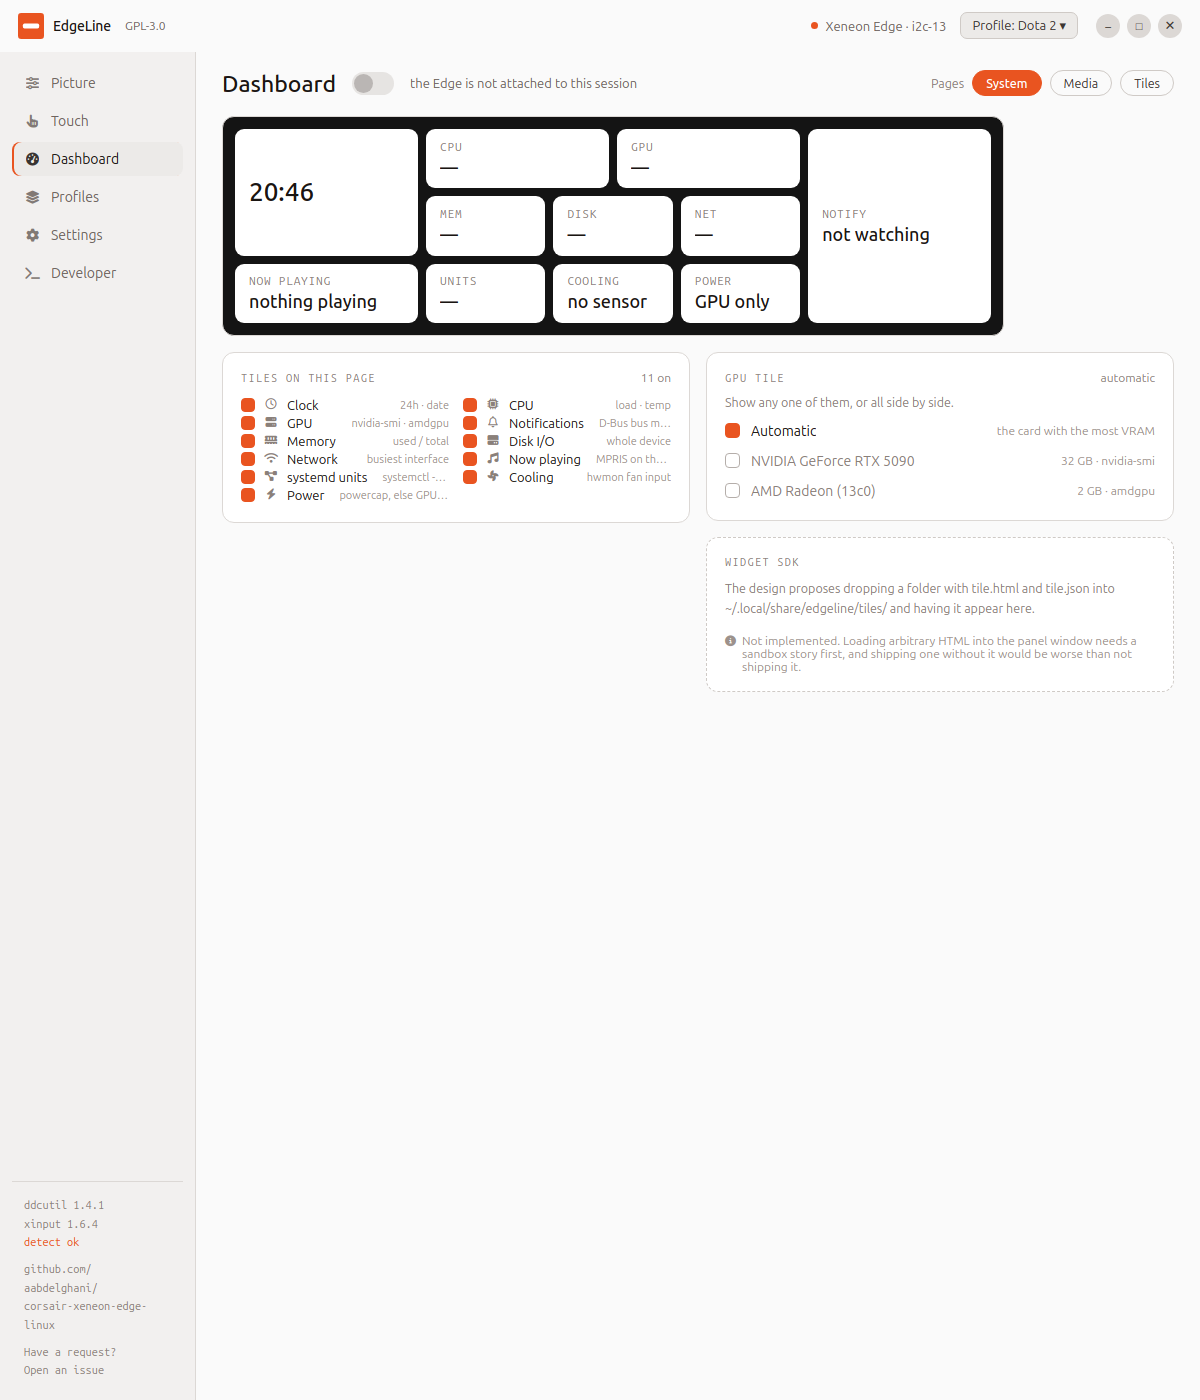
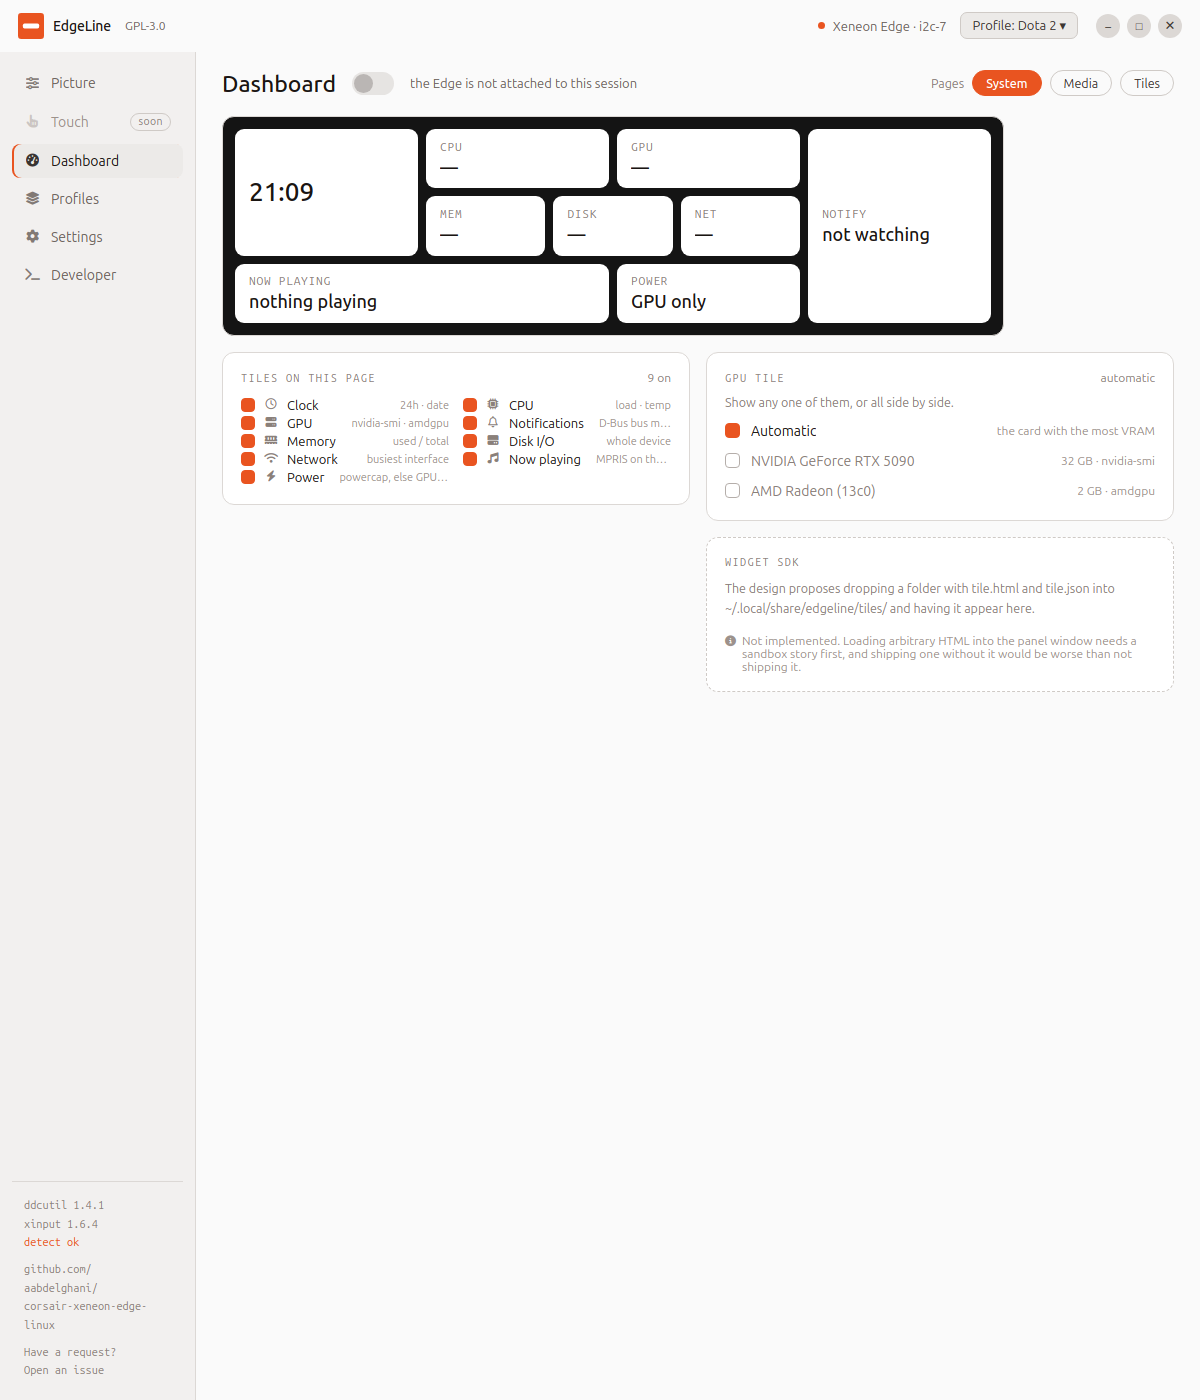
Fill the whole panel, stop spawning two agents, and park touch as coming soon
The panel window came up 2559x719 on a 2560x720 monitor, leaving a strip of
desktop along the right and bottom. It is Electron, not the window manager:
resizing the mapped window to 2560x720 from outside sticks, while asking
Electron for exactly the monitor's bounds reads back a pixel short on each
axis, before and after the window is shown. Asking for one pixel more avoids
the trim. The extra pixel only goes on a side with no other monitor beyond it,
so it can never draw a line along a neighbouring screen. The panel also fills
the window on both axes now instead of letterboxing, which had turned that
single missing pixel into a visible band.

Two agents were running at once, both children of the interface, a second
apart. A refused connection emits 'error' and then 'close' for the same
socket, and the handler ran for both, spawning an agent each time; the second
took the socket from the first, which stayed alive polling the panel over DDC.
The handler now runs once per socket, the interface will not spawn while its
last agent is still starting, and the agent takes a lock file before binding,
so two started together leave exactly one. A SIGKILLed agent's lock is
recognised as stale and does not block the next start.

Touch is parked. The tab stays reachable with a "soon" badge, and the page
shows its state greyed out under a coming soon notice. The panel stays in
Ripple only, which is the mode the agent restores, so that is what the page
shows as selected.
[…]

diff --git a/ui/main.js b/ui/main.js
@@ -63,7 +63,13 @@ function agentCandidates() {
   });
 }
 
+let agentChild = null;
+
 function startAgent() {
+  // One agent at a time. A spawn that is still starting has not created the
+  // socket yet, so every reconnect attempt in that window would otherwise
+  // start another one.
+  if (agentChild && agentChild.exitCode === null && agentChild.signalCode === null) return true;
   const bin = agentCandidates()[0];
   if (!bin) return false;
   try {
@@ -71,6 +77,8 @@ function startAgent() {
     // a packaged install uses the systemd user unit instead.
     const child = spawn(bin, [], { stdio: 'ignore' });
     child.unref();
+    agentChild = child;
+    child.on('exit', () => { if (agentChild === child) agentChild = null; });
     return true;
   } catch {
     return false;
@@ -138,7 +146,14 @@ function connect() {
     }
   });
 
+  // A refused connection emits 'error' and then 'close' for the same socket, so
+  // without this guard drop ran twice per failure. It spawned two agents a
+  // second apart; the second took the socket over from the first, which was
+  // left orphaned and still polling the panel over DDC.
+  let dropped = false;
   const drop = () => {
+    if (dropped) return;
+    dropped = true;
     const wasConnected = connected;
     connected = false;
     if (sock) sock.destroy();
@@ -259,6 +274,33 @@ let rippleWindow = null;
 // Both of these live on the panel itself, so they are placed by finding a
 // display of exactly 2560x720. The connector name is never used: it changes
 // between reboots on this hardware.
+// Bounds for the panel window, one pixel larger than the monitor.
+//
+// Electron trims a pixel off each axis of a window whose bounds exactly equal
+// its monitor, before and after the window is shown alike: asked for 2560x720
+// on the Edge it gave 2559x719, leaving a strip of desktop along the right and
+// bottom edges. It is not the window manager (resizing the mapped window to
+// 2560x720 from outside sticks, and mutter refuses fullscreen for it anyway).
+// Asking for one pixel more avoids the trim; measured 2561x721.
+//
+// The extra pixel must land where no other monitor is, or it would draw a dark
+// line along the edge of a neighbouring screen. So it goes past the right edge
+// only if nothing is there, else past the left, and the same for bottom and
+// top. A panel boxed in on both sides of an axis keeps the trimmed pixel on
+// that axis, which is the lesser problem.
+function panelBounds(edge) {
+  const e = edge.bounds;
+  const others = screen.getAllDisplays().filter((d) => d.id !== edge.id).map((d) => d.bounds);
+  const clear = (r) => !others.some((o) => r.x < o.x + o.width && o.x < r.x + r.width
+                                        && r.y < o.y + o.height && o.y < r.y + r.height);
+  const b = { ...e };
+  if (clear({ x: e.x + e.width, y: e.y, width: 1, height: e.height })) b.width += 1;
+  else if (clear({ x: e.x - 1, y: e.y, width: 1, height: e.height })) { b.x -= 1; b.width += 1; }
+  if (clear({ x: e.x, y: e.y + e.height, width: e.width, height: 1 })) b.height += 1;
+  else if (clear({ x: e.x, y: e.y - 1, width: e.width, height: 1 })) { b.y -= 1; b.height += 1; }
+  return b;
+}
+
 function openDashboardWindow() {
   const edge = edgeDisplay();
   if (!edge) return { ok: false, error: 'the Edge is not attached to this session' };
@@ -268,7 +310,12 @@ function openDashboardWindow() {
     icon: APP_ICON,
     x: edge.bounds.x, y: edge.bounds.y,
     width: edge.bounds.width, height: edge.bounds.height,
-    frame: false, alwaysOnTop: true, skipTaskbar: true, resizable: false,
+    // Resizable on purpose. resizable:false publishes a minimum and maximum
+    // size of exactly 2560x720, and with both pinned mutter will neither
+    // fullscreen the window nor place it at the monitor's full size: it came
+    // up 2559x719. With no frame and no focus nobody can drag it anyway.
+    frame: false, alwaysOnTop: true, skipTaskbar: true, resizable: true,
+    show: false,   // shown once ready, then sized exactly; see below
     // A readout, not an input surface. Focusable it would sit on top of the
     // panel and swallow keyboard focus, and since it does nothing with keys
     // that looks exactly like the keyboard having stopped working.
@@ -281,6 +328,18 @@ function openDashboardWindow() {
   });
   dashWindow.removeMenu();
   dashWindow.setAlwaysOnTop(true, 'normal');
+  // Sized once it is on screen, to panelBounds rather than the monitor's own
+  // bounds; see there for why.
+  dashWindow.once('ready-to-show', () => {
+    if (!dashWindow) return;
+    dashWindow.showInactive();
+    setTimeout(() => {
+      if (!dashWindow) return;
+      dashWindow.setBounds(panelBounds(edge));
+      const b = dashWindow.getBounds();
+      console.log(`[panel] bounds ${b.width}x${b.height}+${b.x}+${b.y}`);
+    }, 250);
+  });
   dashWindow.loadFile(path.join(__dirname, 'renderer', 'dashboard.html'));
   dashWindow.on('closed', () => { dashWindow = null; });
   return { ok: true };

diff --git a/ui/renderer/dashboard.js b/ui/renderer/dashboard.js
@@ -33,21 +33,21 @@ const PAGE_NAMES = ['SYSTEM', 'MEDIA', 'TILES'];
 const LAYOUTS = [
   [['time', 3, 2], ['cpu', 3, 1], ['gpu', 3, 1], ['notifications', 3, 3],
    ['memory', 2, 1], ['disk', 2, 1], ['network', 2, 1],
-   ['nowplaying', 3, 1], ['units', 2, 1], ['cooling', 2, 1], ['power', 2, 1]],
+   ['nowplaying', 6, 1], ['power', 3, 1]],
 
   [['time', 3, 2], ['nowplaying', 6, 2], ['notifications', 3, 3],
    ['memory', 3, 1], ['disk', 3, 1], ['network', 3, 1]],
 
   [['cpu', 3, 1], ['gpu', 3, 1], ['memory', 3, 1], ['disk', 3, 1],
-   ['network', 3, 1], ['units', 3, 1], ['cooling', 3, 1], ['power', 3, 1],
+   ['network', 6, 1], ['power', 6, 1],
    ['time', 6, 1], ['nowplaying', 6, 1]],
 ];
 
 // The control window hides tiles by its own labels; these are the same tiles.
 const LABEL_OF = {
   time: 'Clock', cpu: 'CPU', gpu: 'GPU', memory: 'Memory', disk: 'Disk I/O',
-  network: 'Network', units: 'systemd units', nowplaying: 'Now playing',
-  notifications: 'Notifications', cooling: 'Cooling', power: 'Power',
+  network: 'Network', nowplaying: 'Now playing',
+  notifications: 'Notifications', power: 'Power',
 };
 
 // ------------------------------------------------------------------ helpers
@@ -260,31 +260,6 @@ const TILES = {
       : ''));
   },
 
-  units: (cols, rows) => {
-    const c = card('stat', cols, rows);
-    add(c, h('div', 'kicker', 'SYSTEMD'));
-    const n = sensors.failedUnits;
-    const count = h('div', 'count');
-    add(count, h('span', `n${n > 0 ? ' bad' : ''}`, n >= 0 ? String(n) : '—'),
-               h('span', 'word', n === 0 ? 'all units ok' : 'failed'));
-    add(c, count);
-    const names = (sensors.failedUnitNames || []).slice(0, 2)
-      .map((u) => u.replace(/\.service$/, ''));
-    return add(c, h('div', 'names', names.join('\n')));
-  },
-
-  cooling: (cols, rows) => {
-    const c = card('stat', cols, rows);
-    add(c, h('div', 'kicker', 'COOLING'));
-    if (!(sensors.fanRpm >= 0))
-      return unavailable(c, 'no fan sensor',
-        'nothing under /sys/class/hwmon reports a fan on this machine');
-    const big = h('div', 'big', String(Math.round(sensors.fanRpm)));
-    add(big, h('span', 'unit', ' RPM'));
-    add(c, big);
-    return add(c, h('div', 'sub', sensors.fanChip || ''));
-  },
-
   power: (cols, rows) => {
     const c = card('stat', cols, rows);
     add(c, h('div', 'kicker', 'POWER'));
@@ -371,9 +346,14 @@ const TILES = {
 // ------------------------------------------------------------------- render
 
 function fit() {
-  // Letterbox rather than stretch: the artboard's proportions are the panel's.
-  const s = Math.min(window.innerWidth / 2560, window.innerHeight / 720);
-  board.style.setProperty('--s', String(s > 0 ? s : 1));
+  // Fill both axes rather than letterboxing. The artboard already has the
+  // panel's proportions, so the two factors only differ when the window is a
+  // pixel short, and letterboxing turned that single missing pixel into a
+  // visible band down the side of the panel.
+  const sx = window.innerWidth / 2560;
+  const sy = window.innerHeight / 720;
+  board.style.setProperty('--sx', String(sx > 0 ? sx : 1));
+  board.style.setProperty('--sy', String(sy > 0 ? sy : 1));
 }
 
 function header() {

diff --git a/ui/renderer/page-touch.js b/ui/renderer/page-touch.js
@@ -122,7 +122,9 @@ function touchTestCard() {
         `${points.length} contact${points.length === 1 ? '' : 's'}`)),
     el('div', {
       style: 'aspect-ratio:2560/720;border-radius:8px;background:var(--sidebar);'
-           + 'border:1px solid var(--border);position:relative;max-height:74px;overflow:hidden',
+           // Shorter while the page is not live: the "coming soon" banner above
+           // takes that height, and the window is a fixed 760 with no scrolling.
+           + `border:1px solid var(--border);position:relative;max-height:${TOUCH_PAGE_LIVE ? 74 : 40}px;overflow:hidden`,
     },
       ...points.map((p) => el('div', {
         style: `position:absolute;left:${(p.nx * 100).toFixed(2)}%;top:${(p.ny * 100).toFixed(2)}%;`
@@ -358,14 +360,18 @@ function gesturesModal() {
         }, 'Done'))));
 }
 
+// The Touch page is not ready. Gestures and the lock zone never receive touches
+// on the real panel, so the page stays reachable (its state is worth seeing)
+// but nothing on it responds. The panel stays in whatever mode the agent
+// restores at login, which is Ripple only, and that is what the page shows as
+// selected: it reflects the real mode rather than painting one on.
+const TOUCH_PAGE_LIVE = false;
+
 PAGES.touch = (host) => {
   const ids = state.touch.deviceIds || [];
-  fill(host,
-    pageHead('Touch', ids.length ? `XINPUT ID ${ids.join(' + ')} · CRSR EDGE TOUCH` : 'NO DIGITIZER'),
-    touchUi.error
-      ? el('div', { class: 'banner warn', style: 'margin:0 0 16px' },
-          icon('fa-solid fa-triangle-exclamation'), el('span', {}, touchUi.error))
-      : null,
+  const body = el('div', {
+    style: TOUCH_PAGE_LIVE ? '' : 'opacity:.5;filter:grayscale(1);pointer-events:none;user-select:none',
+  },
     el('div', { style: 'display:grid;grid-template-columns:repeat(4,minmax(0,1fr));gap:10px;margin-bottom:var(--gap-section)' },
       ...TOUCH_MODES.map(modeCard)),
     calibrationCard(),
@@ -373,4 +379,16 @@ PAGES.touch = (host) => {
     el('div', { style: 'display:grid;grid-template-columns:1.2fr 1fr;gap:10px;margin-bottom:var(--gap-section)' },
       gesturesCard(), lockZoneCard()),
     touchTestCard());
+
+  fill(host,
+    pageHead('Touch', ids.length ? `XINPUT ID ${ids.join(' + ')} · CRSR EDGE TOUCH` : 'NO DIGITIZER'),
+    TOUCH_PAGE_LIVE ? null : el('div', { class: 'banner warn', style: 'margin:0 0 12px' },
+      icon('fa-solid fa-hourglass-half'),
+      el('span', {}, 'Touch controls are coming soon. For now the panel stays in Ripple only: '
+        + 'touches draw a ripple and never move a pointer.')),
+    touchUi.error
+      ? el('div', { class: 'banner warn', style: 'margin:0 0 12px' },
+          icon('fa-solid fa-triangle-exclamation'), el('span', {}, touchUi.error))
+      : null,
+    body);
 };

diff --git a/ui/renderer/page-dashboard.js b/ui/renderer/page-dashboard.js
@@ -22,13 +22,13 @@ const DASH_PAGES = [
   { label: 'System',
     tiles: [['Clock', 3, 2], ['CPU', 3, 1], ['GPU', 3, 1], ['Notifications', 3, 3],
             ['Memory', 2, 1], ['Disk I/O', 2, 1], ['Network', 2, 1],
-            ['Now playing', 3, 1], ['systemd units', 2, 1], ['Cooling', 2, 1], ['Power', 2, 1]] },
+            ['Now playing', 6, 1], ['Power', 3, 1]] },
   { label: 'Media',
     tiles: [['Clock', 3, 2], ['Now playing', 6, 2], ['Notifications', 3, 3],
             ['Memory', 3, 1], ['Disk I/O', 3, 1], ['Network', 3, 1]] },
   { label: 'Tiles',
     tiles: [['CPU', 3, 1], ['GPU', 3, 1], ['Memory', 3, 1], ['Disk I/O', 3, 1],
-            ['Network', 3, 1], ['systemd units', 3, 1], ['Cooling', 3, 1], ['Power', 3, 1],
+            ['Network', 6, 1], ['Power', 6, 1],
             ['Clock', 6, 1], ['Now playing', 6, 1]] },
 ];
 
@@ -39,10 +39,8 @@ const DASH_TILE_META = {
   Memory: ['fa-solid fa-memory', 'used / total', true],
   Network: ['fa-solid fa-wifi', 'busiest interface', true],
   'Disk I/O': ['fa-solid fa-hard-drive', 'whole device', true],
-  'systemd units': ['fa-solid fa-diagram-project', 'systemctl --failed', true],
   'Now playing': ['fa-solid fa-music', 'MPRIS on the session bus', true],
   Notifications: ['fa-regular fa-bell', 'D-Bus bus monitor', true],
-  Cooling: ['fa-solid fa-fan', 'hwmon fan input', true],
   Power: ['fa-solid fa-bolt', 'powercap, else GPU draw', true],
 };
 
@@ -77,14 +75,11 @@ function stripPreview() {
     Network: ['NET', s.netRxMBs >= 0 ? `↓ ${s.netRxMBs.toFixed(1)}` : '—'],
     'Disk I/O': ['DISK', s.diskReadMBs >= 0
       ? `${(s.diskReadMBs + s.diskWriteMBs).toFixed(1)} MB/s` : '—'],
-    'systemd units': ['UNITS', s.failedUnits >= 0
-      ? (s.failedUnits ? `${s.failedUnits} failed` : 'all ok') : '—'],
     'Now playing': ['NOW PLAYING',
       s.nowPlaying && s.nowPlaying.valid ? s.nowPlaying.title : 'nothing playing'],
     Notifications: ['NOTIFY', s.notifyActive === false
       ? 'not watching'
       : ((s.notifications || []).length ? `${s.notifications.length} new` : 'nothing new')],
-    Cooling: ['COOLING', s.fanRpm >= 0 ? `${Math.round(s.fanRpm)} RPM` : 'no sensor'],
     Power: ['POWER', s.packageWatts >= 0 ? `${Math.round(s.packageWatts)} W` : 'GPU only'],
   };
 

diff --git a/ui/renderer/index.html b/ui/renderer/index.html
@@ -38,7 +38,7 @@
   <div id="body">
     <nav id="sidebar">
       <button class="nav-item active" data-tab="picture"><i class="fa-solid fa-sliders"></i>Picture</button>
-      <button class="nav-item" data-tab="touch"><i class="fa-solid fa-hand-pointer"></i>Touch</button>
+      <button class="nav-item soon" data-tab="touch"><i class="fa-solid fa-hand-pointer"></i>Touch<span class="soon-chip">soon</span></button>
       <button class="nav-item" data-tab="dashboard"><i class="fa-solid fa-gauge-high"></i>Dashboard</button>
       <button class="nav-item" data-tab="profiles"><i class="fa-solid fa-layer-group"></i>Profiles</button>
       <button class="nav-item" data-tab="settings"><i class="fa-solid fa-gear"></i>Settings</button>

diff --git a/ui/renderer/styles.css b/ui/renderer/styles.css
@@ -129,6 +129,14 @@ input[type=range]:disabled::-webkit-slider-thumb { cursor: not-allowed; }
   background: var(--sunken); color: var(--text);
   box-shadow: inset 2px 0 0 var(--accent);
 }
+/* A tab for something not finished: still reachable, visibly not ready. */
+.nav-item.soon, .nav-item.soon.active { color: var(--text5); }
+.nav-item.soon i { opacity: .45; }
+.nav-item .soon-chip {
+  margin-left: auto; font-size: 10.5px; letter-spacing: .04em; line-height: 1.5;
+  padding: 0 7px; border-radius: 9px;
+  border: 1px solid var(--border2); color: var(--text4);
+}
 .sidebar-foot {
   margin-top: auto; padding: 14px 12px 6px;
   border-top: 1px solid var(--border);

diff --git a/ui/renderer/dashboard.css b/ui/renderer/dashboard.css
@@ -64,7 +64,7 @@ html, body {
   position: absolute; top: 0; left: 0;
   width: 2560px; height: 720px;
   transform-origin: top left;
-  transform: scale(var(--s, 1));
+  transform: scale(var(--sx, 1), var(--sy, 1));
   box-sizing: border-box;
   padding: 22px 26px;
   display: flex; flex-direction: column; gap: 16px;

diff --git a/agent/src/agent/main.cpp b/agent/src/agent/main.cpp
@@ -9,6 +9,8 @@
 #include "ipc/RpcServer.h"
 
 #include <QCoreApplication>
+#include <QDir>
+#include <QLockFile>
 #include <QTimer>
 
 #include <csignal>
@@ -70,6 +72,24 @@ int main(int argc, char** argv)
 
     QCoreApplication app(argc, argv);
     xen::settings::init();
+
+    // One agent per runtime dir. RpcServer::listen() probes the socket before
+    // taking it, but that leaves a window: two agents started together both
+    // find no socket, both bind, and the second takes the path over from the
+    // first, which carries on polling the panel over DDC as an orphan. The
+    // interface did exactly that when a refused connection made it spawn twice.
+    // A lock file closes the window. QLockFile recognises a lock whose owner has
+    // died, so a SIGKILLed agent cannot block the next one; the stale time is
+    // zero so a long-running agent's lock never ages out.
+    const QString runtimeDir = qEnvironmentVariableIsEmpty("XDG_RUNTIME_DIR")
+        ? QDir::tempPath() : qEnvironmentVariable("XDG_RUNTIME_DIR");
+    QLockFile lock((socketPath.isEmpty() ? runtimeDir + QStringLiteral("/edgeline.sock") : socketPath)
+                   + QStringLiteral(".lock"));
+    lock.setStaleLockTime(0);
+    if (!lock.tryLock(0)) {
+        std::fprintf(stderr, "edgeline-agent: another agent is already running for this session\n");
+        return 1;
+    }
 
     xen::RpcServer rpc;
     if (!rpc.listen(socketPath)) {

diff --git a/README.md b/README.md
@@ -72,8 +72,8 @@ support to another OS, are in [docs/TOUCH.md](docs/TOUCH.md).
 
 The panel draws a twelve by three grid of tiles at its native 2560x720: a large
 clock with the date and uptime, CPU and GPU with rolling sparklines, memory,
-disk throughput with how full the root filesystem is, network in bits, failed
-systemd units, what is playing, and desktop notifications as they arrive. Three
+disk throughput with how full the root filesystem is, network in bits, what is
+playing, and desktop notifications as they arrive. Three
 pages (System, Media, Tiles) rearrange the same tiles, and the header carries
 the hostname and the page pills.
 
@@ -92,9 +92,8 @@ connection is monitor only: once the bus grants it, it is forbidden from
 sending anything at all, so the agent can watch notifications and nothing else.
 
 Where this machine has no source for a figure, the tile says so rather than
-showing a plausible number. This desktop reports no hwmon fan input at all, and
-powercap's energy counters are readable only by root, so cooling reads "no fan
-sensor" and power falls back to the GPU's own measured draw, labelled as such.
+showing a plausible number. Where powercap's energy counters are readable only by
+root, power falls back to the GPU's own measured draw, labelled as such.
 Choose which tiles appear:
 
 ![Dashboard page](docs/dashboard.png)
